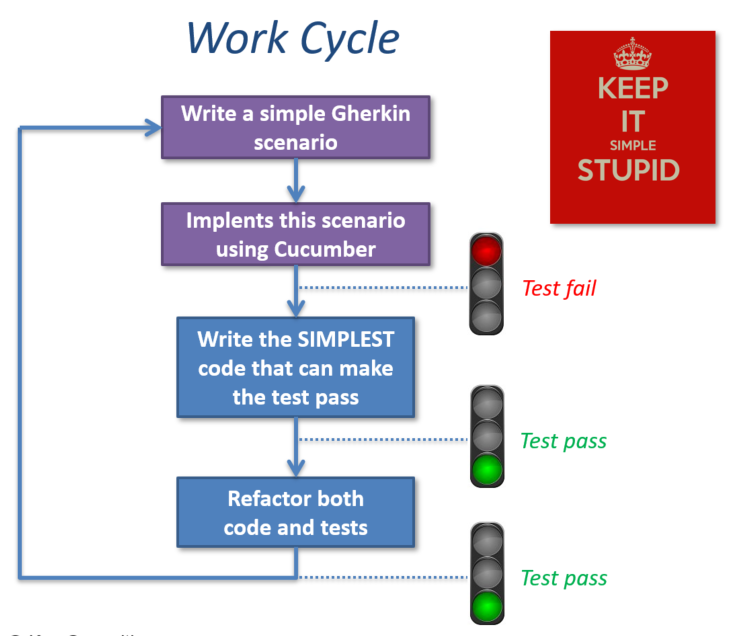
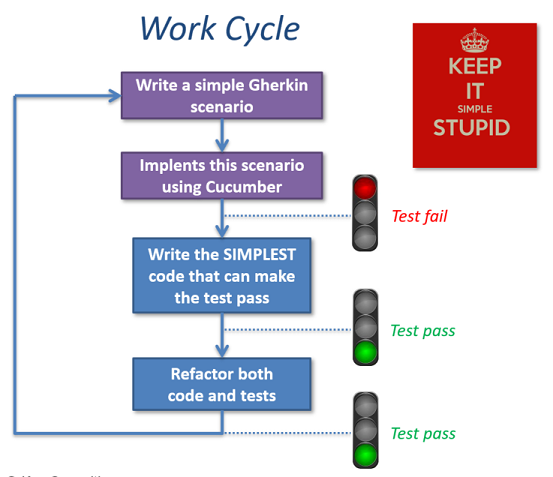
update README illustration

diff --git a/README.md b/README.md
@@ -32,7 +32,7 @@ Generate pretty HTML report (in /target/cucumber-reports/)
 ## BDD rounds sequence for this practice
 We are about to implement our 3 firsts Feature using classic TDD cycle.
 
-![BDD work cycle](BDD-work-cyle.png)
+![BDD work cycle](BDD-work-cycle.png)
 
 - Round 1 : our 1st Feature is a basic spreadsheet cell with text (Git tag = *round-1-start*)
 - Round 2 : a 2nd Feature to improve our cell with numbers (Git tag = *round-2-start*)
